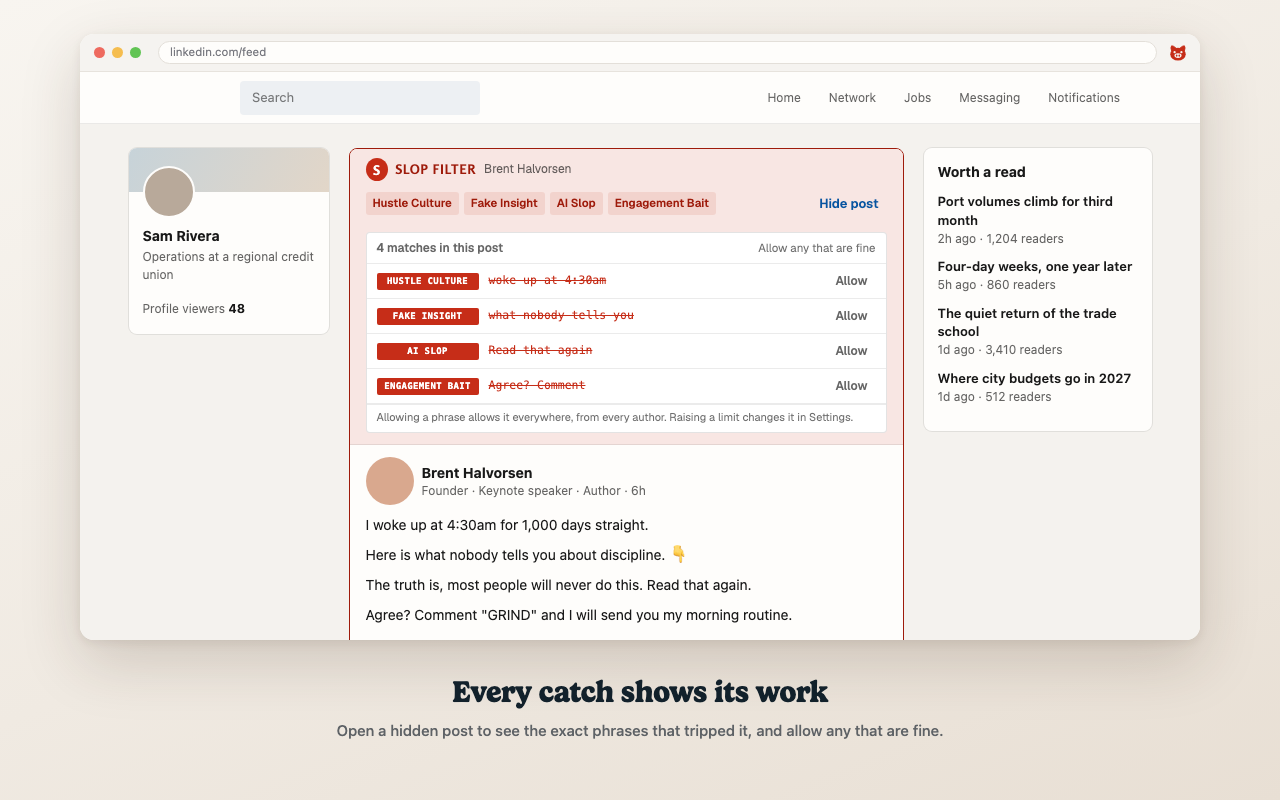
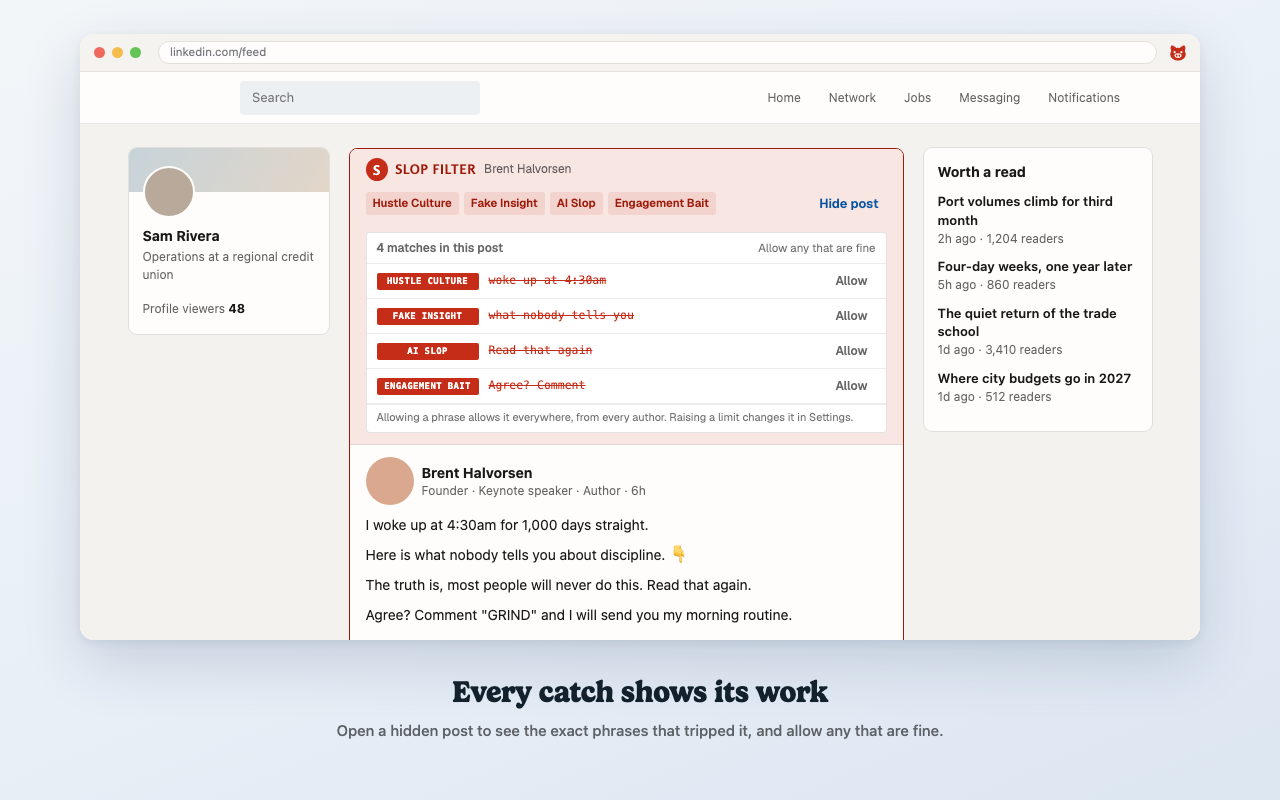
README: pale blue screenshots, grid settings image, browser install step

Changed region(s): [[0.0625, 0.1562, 1.0, 1.0], [0.0312, 0.7188, 0.0625, 0.7812]]

diff --git a/README.md b/README.md
@@ -35,9 +35,10 @@ The filter reads every post as your feed loads and pulls out the slop before you
 Slop Filter is being approved by the Chrome Web Store. Until it's live:
 
 1. Download this repo as a ZIP and unzip it, or clone it.
-2. Go to `chrome://extensions` and turn on **Developer mode**, top right.
-3. Click **Load unpacked** and pick the folder.
-4. Reload LinkedIn.
+2. Install Google Chrome or a Chromium-based browser.
+3. Go to `chrome://extensions` and turn on **Developer mode**, top right.
+4. Click **Load unpacked** and pick the folder.
+5. Reload LinkedIn.
 
 ## What it catches
 
